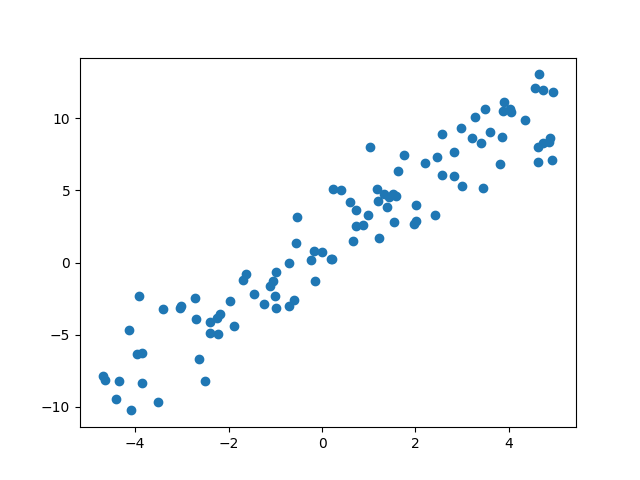
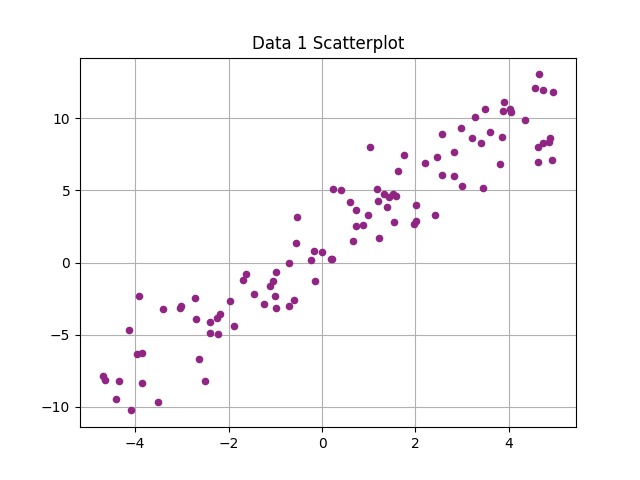
Scatterplots

diff --git a/ex3/i_tzimas/kaiki.py b/ex3/i_tzimas/kaiki.py
@@ -1,7 +1,24 @@
 import matplotlib.pyplot as plt
 import numpy as np
 
+# Scatterplots
 data1 = np.loadtxt("ex3/data/data1.csv", skiprows=1, delimiter=",")
 
-plt.scatter(data1[:, 0], data1[:, 1])
+plt.scatter(data1[:, 0], data1[:, 1], 20, "#912583", zorder=2)
+plt.title("Data 1 Scatterplot")
+plt.grid()
 plt.savefig("ex3/i_tzimas/data1_scatter.png")
+plt.clf()
+
+data2 = np.loadtxt("ex3/data/data2.csv", skiprows=1, delimiter=",")
+
+plt.scatter(data2[:, 0], data2[:, 1], 20, "#912583", zorder=2)
+plt.title("Data 2 Scatterplot")
+plt.grid()
+plt.savefig("ex3/i_tzimas/data2_scatter.png")
+plt.clf()
+
+data3 = np.loadtxt("ex3/data/data3.csv", skiprows=1, delimiter=",")
+plt.subplot(111, projection="3d").scatter(data3[:, 0], data3[:, 1], data3[:, 2])
+plt.title("Data 3 Scatterplot")
+# plt.show()
